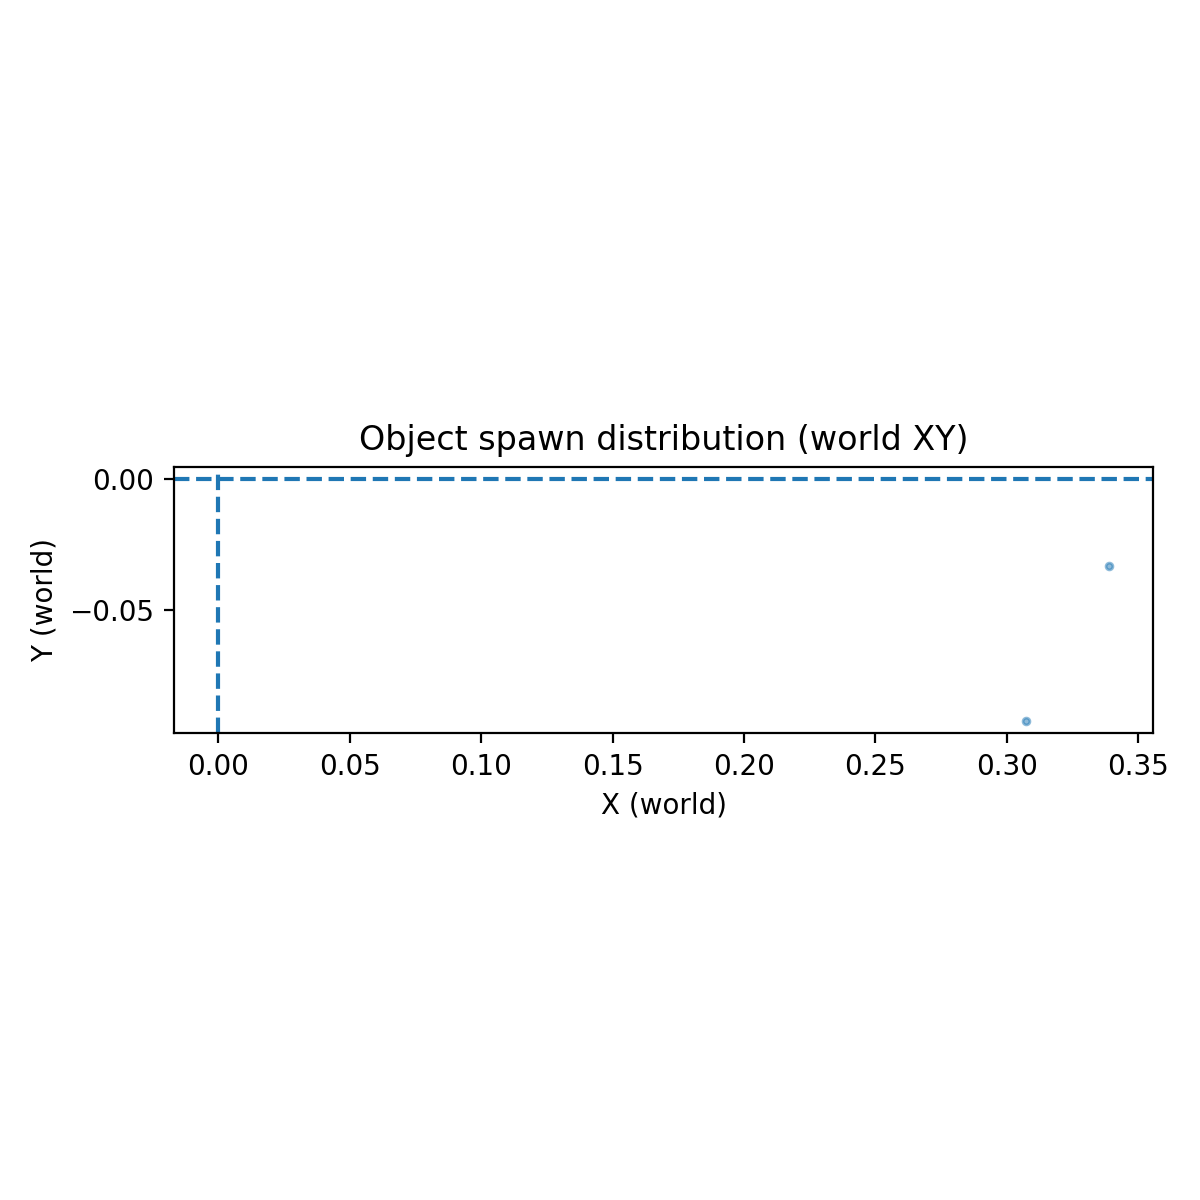
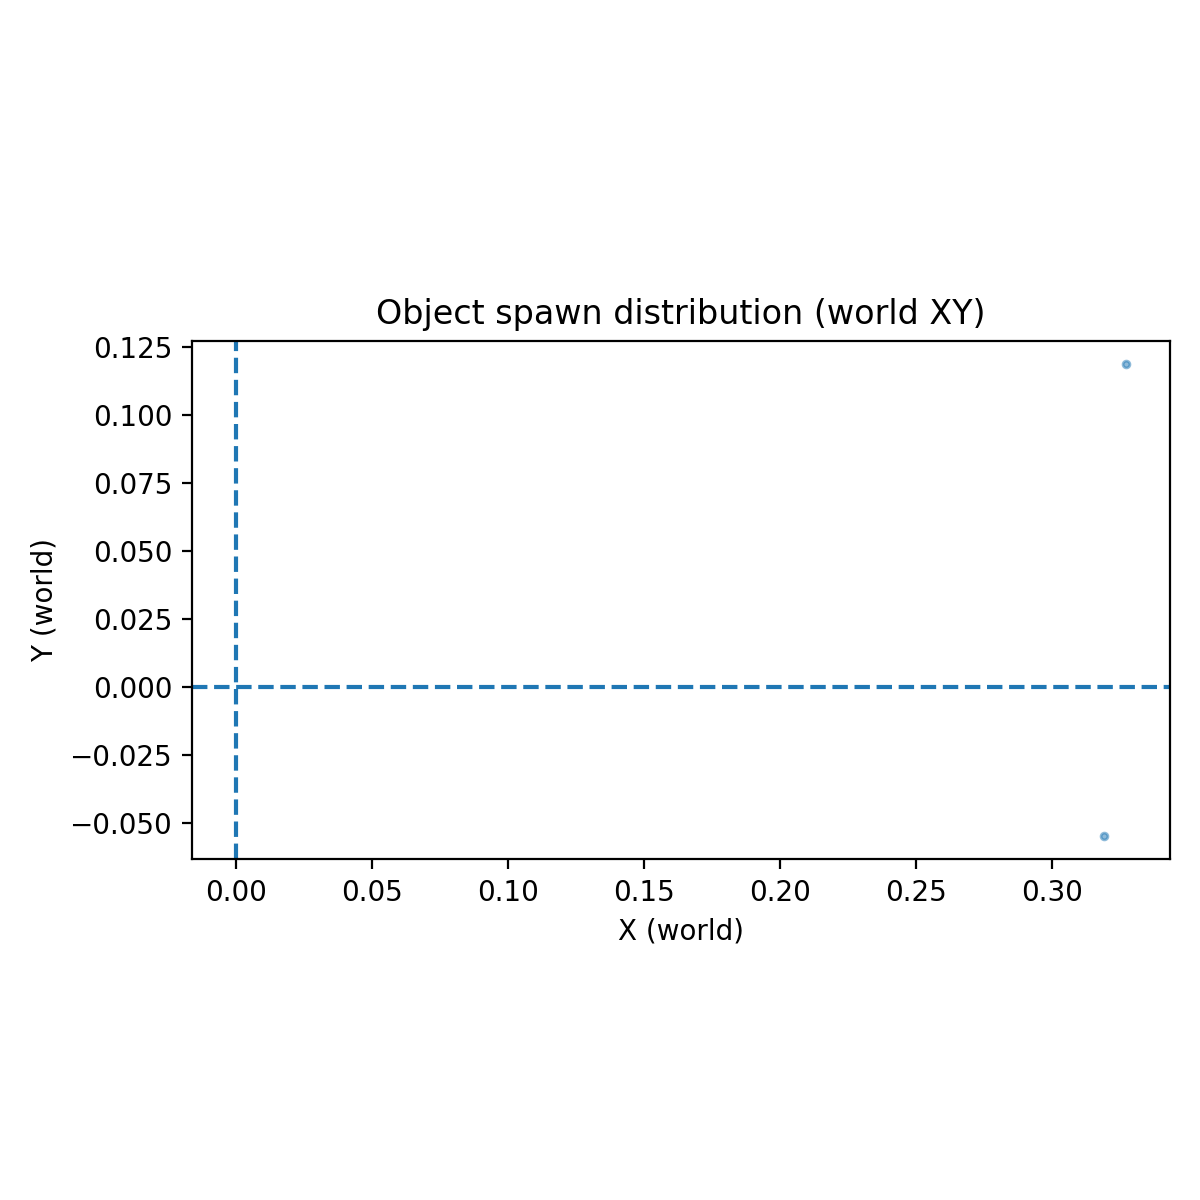
一些调试方面的改动

Changed region(s): [[0.0617, 0.2467, 0.9867, 0.8017]]

diff --git a/source/isaaclab_tasks/isaaclab_tasks/manager_based/manipulation/lift/lift_env_cfg.py b/source/isaaclab_tasks/isaaclab_tasks/manager_based/manipulation/lift/lift_env_cfg.py
@@ -403,29 +403,29 @@ class RewardsCfg:
         },
         weight=5.0,                   # 先小一点，避免模型只顾着转不去抓
     )
-    # m0_turn_toward_object = RewTerm(
-    #     func=mdp.m0_turn_toward_object_until_grasp,
-    #     params={
-    #         "post_grasp_scale": 0.0,
-    #         "contact_force_threshold": 1.5,
-    #         "require_both_contacts": True,
-    #         "stable_steps": 8,
-    #         "release_steps": 2,
-    #         "left_sensor_cfg": SceneEntityCfg("contact_forces_left"),
-    #         "right_sensor_cfg": SceneEntityCfg("contact_forces_right"),
+    m0_turn_toward_object = RewTerm(
+        func=mdp.m0_turn_toward_object_until_grasp,
+        params={
+            "post_grasp_scale": 0.0,
+            "contact_force_threshold": 1.5,
+            "require_both_contacts": True,
+            "stable_steps": 8,
+            "release_steps": 2,
+            "left_sensor_cfg": SceneEntityCfg("contact_forces_left"),
+            "right_sensor_cfg": SceneEntityCfg("contact_forces_right"),
 
-    #         # 下面这些是原 m0_turn_toward_object 的参数
-    #         "in_range_deg": 15,        # 转到 ±20° 内就给奖励（想更严格就改小）
-    #         "std": 0.35,                 # 只有 in_range_deg=None 时才用
-    #         "center_from_robot": True,
-    #         "robot_cfg": SceneEntityCfg("robot"),
-    #         "object_cfg": SceneEntityCfg("object_pool"),
-    #         "debug": False,
-    #         "debug_every_steps": 1,
-    #         "debug_env": 0,
-    #     },
-    #     weight=10,
-    # )
+            # 下面这些是原 m0_turn_toward_object 的参数
+            "in_range_deg": 15,        # 转到 ±20° 内就给奖励（想更严格就改小）
+            "std": 0.35,                 # 只有 in_range_deg=None 时才用
+            "center_from_robot": True,
+            "robot_cfg": SceneEntityCfg("robot"),
+            "object_cfg": SceneEntityCfg("object_pool"),
+            "debug": False,
+            "debug_every_steps": 1,
+            "debug_env": 0,
+        },
+        weight=10,
+    )
 
     # Base movement penalties - prevent tilting from arm impacts
     # base_ang_vel_penalty = RewTerm(
@@ -440,22 +440,22 @@ class RewardsCfg:
     )
 
     # 物体被夹住后，禁止沿切向被拖着跑（抑制 M0 乱转造成的晃动）
-    # penalize_obj_vt = RewTerm(
-    #     func=mdp.penalize_active_object_tangential_speed,
-    #     weight=-50,  # 先从 -0.05 ~ -0.2 试，后面再加大
-    #     params={
-    #         "penalty_scale": 1.0,
-    #         "v_deadzone": 0.1,  # 0.005~0.02 都可以扫一下
-    #         "center_from_robot": True,
-    #         "contact_force_threshold": 1.5,
-    #         "require_both_contacts": True,
-    #         "stable_steps": 3,  # 建议 3 或 5；不需要就设 0
-    #         "left_sensor_cfg": SceneEntityCfg("contact_forces_left"),
-    #         "right_sensor_cfg": SceneEntityCfg("contact_forces_right"),
-    #         "robot_cfg": SceneEntityCfg("robot"),
-    #         "object_cfg": SceneEntityCfg("object_pool"),
-    #     },
-    # )
+    penalize_obj_vt = RewTerm(
+        func=mdp.penalize_active_object_tangential_speed,
+        weight=-50,  # 先从 -0.05 ~ -0.2 试，后面再加大
+        params={
+            "penalty_scale": 1.0,
+            "v_deadzone": 0.1,  # 0.005~0.02 都可以扫一下
+            "center_from_robot": True,
+            "contact_force_threshold": 1.5,
+            "require_both_contacts": True,
+            "stable_steps": 3,  # 建议 3 或 5；不需要就设 0
+            "left_sensor_cfg": SceneEntityCfg("contact_forces_left"),
+            "right_sensor_cfg": SceneEntityCfg("contact_forces_right"),
+            "robot_cfg": SceneEntityCfg("robot"),
+            "object_cfg": SceneEntityCfg("object_pool"),
+        },
+    )
 
 
 @configclass
@@ -526,10 +526,10 @@ class LiftEnvCfg(ManagerBasedRLEnvCfg):
 
         """Post initialization."""
         self.sim.dt = 0.01  # 100Hz
-        self.decimation = 20  # 2 20 48
-        self.episode_length_s = 6 * self.decimation * self.sim.dt
-        # self.decimation = 1
-        # self.episode_length_s = 10
+        # self.decimation = 20  # 2 20 48
+        # self.episode_length_s = 6 * self.decimation * self.sim.dt
+        self.decimation = 1
+        self.episode_length_s = 10
         self.sim.render_interval = self.decimation
         # self.sim.render_interval = 1
 
@@ -545,4 +545,3 @@ class LiftEnvCfg(ManagerBasedRLEnvCfg):
         self.sim.physx.gpu_max_rigid_patch_count = 1_000_000          # 接触 patch 上限
 
         self.sim.physx.gpu_collision_stack_size = 96 * 1024 * 1024    # ≈ 100 MB
-

diff --git a/source/isaaclab_tasks/isaaclab_tasks/manager_based/manipulation/lift/config/franka/joint_pos_env_cfg.py b/source/isaaclab_tasks/isaaclab_tasks/manager_based/manipulation/lift/config/franka/joint_pos_env_cfg.py
@@ -96,22 +96,22 @@ class CoarseArmCubeLiftEnvCfg(LiftEnvCfg):
         # Set CoarseArm as robot
         self.scene.robot = MY_ROBOT_CFG.replace(prim_path="{ENV_REGEX_NS}/Robot")
 
-        # self.actions.arm_action = mdp.RelativeJointPositionActionCfg(
-        #     #asset_name="robot", joint_names=["panda_joint.*"], scale=0.5, use_default_offset=True
-        #     asset_name = "robot", 
-        #     joint_names = ["M[0345]"],
-        #     scale={
-        #         "M0": 0.3,
-        #         "M3": 0.3,
-        #         "M4": 0.3,
-        #         # "M5": 0.08
-        #     }
-        # )
-        self.actions.arm_action = mdp.JointPositionActionCfg(
-            asset_name="robot",
-            joint_names=["M[034]"],
-            use_default_offset=True,
+        self.actions.arm_action = mdp.RelativeJointPositionActionCfg(
+            #asset_name="robot", joint_names=["panda_joint.*"], scale=0.5, use_default_offset=True
+            asset_name = "robot", 
+            joint_names = ["M[0345]"],
+            scale={
+                "M0": 0.3,
+                "M3": 0.3,
+                "M4": 0.3,
+                # "M5": 0.08
+            }
         )
+        # self.actions.arm_action = mdp.JointPositionActionCfg(
+        #     asset_name="robot",
+        #     joint_names=["M[034]"],
+        #     use_default_offset=True,
+        # )
 
         self.actions.gripper_action = mdp.BinaryJointPositionActionCfg(
             asset_name="robot",
